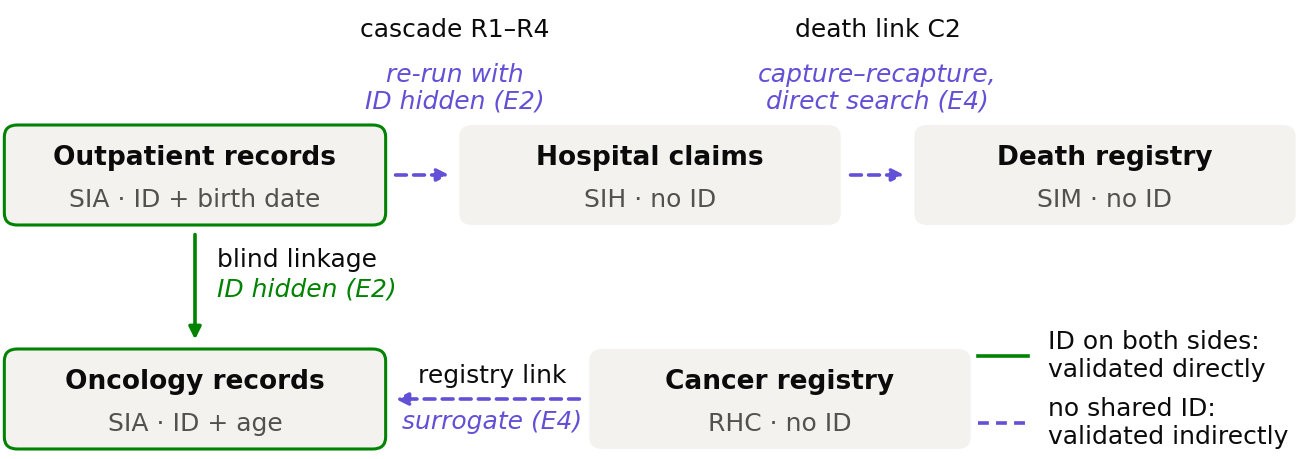
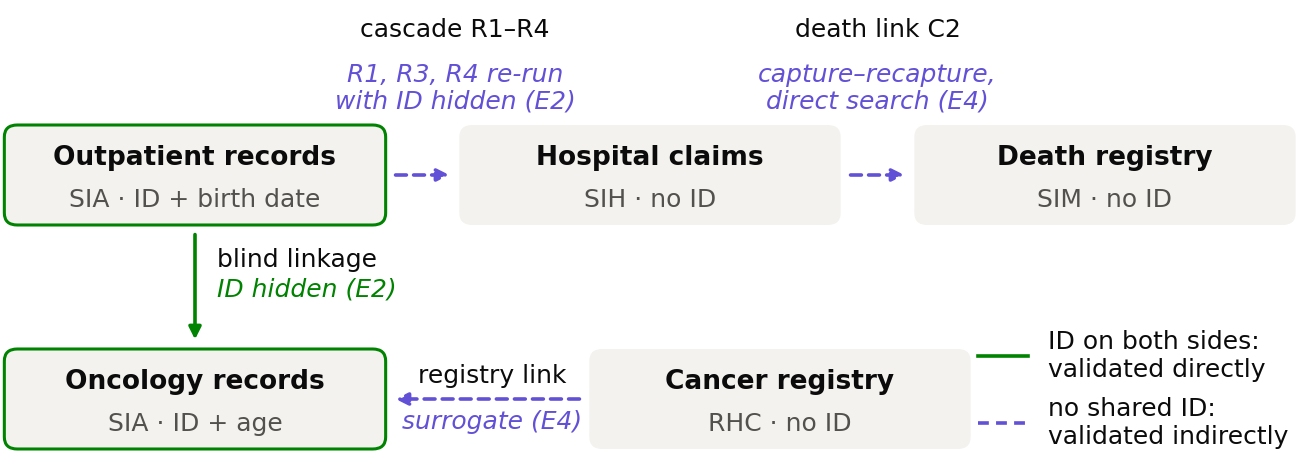
Citation contexts corrected; abstract and key findings match E4; Fig. 2 names the rules re-run

Changed region(s): [[0.2463, 0.122, 0.4619, 0.244]]

diff --git a/paper/ml4h_final.tex b/paper/ml4h_final.tex
@@ -78,10 +78,11 @@ used only as ground truth, the linkage cascade reaches 94.6\% recall and
 96.0\% precision in a candidate pool the size of a disease cohort, but
 36.7\% and 36.8\% across a whole state. Recall is 12.0 points lower where race
 is not recorded (6.0 [4.9, 7.2] after adjusting for year and state). In 2{,}684
-children with nephroblastoma, losing links at the measured rates moves 5-year
-survival from 80.5\% to at most 81.7\%, omitting the mortality
-sources moves it to 89.1\%, and deaths that no source records leave the
-reference between 77.5\% and 82.7\%. In a breast-cancer
+children with nephroblastoma, losing links at the measured or implied rates moves
+5-year survival from 80.5\% to at most 81.7\%, omitting the mortality
+sources moves it to 89.1\%, and deaths that no source records, together
+with registry deaths attached to the wrong patient, leave the reference between
+77.5\% and 82.7\%. In a breast-cancer
 survival model (209,387 patients), the source that labels death moves the stage
 IV hazard ratio from 2.52 to 8.07 and changes calibration
 by race. The choice of linked sources, not the number of lost links, determines
@@ -136,7 +137,9 @@ inherits the linkage errors: a missed link deletes an event, and a false link
 attaches someone else's (Figure~\ref{fig:overview}a). These errors are rarely
 measured. Work on linkage bias has mostly studied systems where names are
 available \citep{harron2014,doidge2019}, and work on algorithmic fairness
-usually takes the assembled record as given \citep{obermeyer2019,hardt2016,chen2021}.
+usually takes the assembled record as given \citep{obermeyer2019,hardt2016},
+although bias introduced during data collection is a recognised source of harm
+\citep{chen2021}.
 
 Brazil's Unified Health System (SUS) serves more than 200 million people and
 publishes its records as open microdata. Only the outpatient file carries a
@@ -172,8 +175,9 @@ calibration by race (E5).
 disease cohort: recall 94.6\% and precision 96.0\% there; both fall to
 36.7--36.8\% across a whole state.
 \textbf{(ii)} Links are lost most where registration is incomplete: recall is
-12.0 points lower where race is missing.
-\textbf{(iii)} Losing existing links at the measured rates moves 5-year survival
+12.0 points lower where race is missing (6.0 [4.9, 7.2] after adjusting for year
+and state).
+\textbf{(iii)} Losing existing links at the measured or implied rates moves 5-year survival
 little (80.5\% to at most 81.7\%); leaving out the mortality
 sources moves it to 89.1\%; and the source that labels death moves a
 model's stage IV hazard ratio from 2.52 to 8.07.}
@@ -191,9 +195,9 @@ where names are available. GUILD \citep{gilbert2018} specifies what
 linkage-quality information should be reported. Fellegi--Sunter
 \citep{fellegi1969} and its extensions \citep{winkler2006}, now run at scale by
 open-source tools such as Splink \citep{linacre2022}, give the probabilistic
-framework that we use as an audit instrument. \citet{christen2023} catalogue how
-errors in capturing, processing and linking population data reach the analysis. We differ in the
-identifier, the grain and the endpoint (Table~\ref{tab:prior}): no names are
+framework that we use as an audit instrument. \citet{christen2023} catalogue common
+misconceptions about errors in the capture, processing and linkage of population data. We differ in the
+identifier and the endpoint (Table~\ref{tab:prior}): no names are
 available, the only identifier is encrypted and absent from three of the four
 systems, and we follow the measured error into a survival estimate and a trained
 model.
@@ -452,7 +456,7 @@ same holds for Fellegi--Sunter parameters: nationally, the joint $u$ of birth
 date + sex + municipality is 1.02$\times$ the product of the
 single-field values, whereas in the nephroblastoma pool it is
 7.7--30.4$\times$ (Appendix~\ref{app:fs}).
-Chance agreement must be measured in the pool that is compared.
+Chance agreement depends on who is in the pool, so it must be measured in the pool that is compared.
 
 \subsection{E3: Links Are Lost Where Race Is Not Recorded}
 \label{sec:e3}
@@ -534,7 +538,7 @@ death links, at most at the rate that treats every ambiguous SIM death as false.
 only: death flags on the patient's own outpatient and hospital records, with no
 SIM link and no cancer registry.
 \item \emph{Unrecorded and false deaths.} The pipeline and the cancer registry give
-two lists of deaths; capture--recapture (Chapman, \citealp{chapman1951})
+two lists of deaths; capture--recapture (Chapman estimator; \citealp{chapman1951})
 estimates the deaths neither records. Registry deaths not found in SIM by a
 direct search are likely attached to the wrong patient.
 \end{itemize}

diff --git a/analysis/ml4h_figuras_finais.py b/analysis/ml4h_figuras_finais.py
@@ -195,7 +195,7 @@ def fig2_sources_links() -> None:
     caixa(xr, yb, "Cancer registry", "RHC · no ID")
 
     seta((xa + w / 2 + 0.02, yt), (xb - w / 2 - 0.02, yt), False)
-    rotulo((xa + xb) / 2 + 0.15, yt + h / 2 + 0.06, "cascade R1–R4", "re-run with\nID hidden (E2)", VIOLETA)
+    rotulo((xa + xb) / 2 + 0.15, yt + h / 2 + 0.06, "cascade R1–R4", "R1, R3, R4 re-run\nwith ID hidden (E2)", VIOLETA)
     seta((xb + w / 2 + 0.02, yt), (xc - w / 2 - 0.02, yt), False)
     rotulo((xb + xc) / 2, yt + h / 2 + 0.06, "death link C2", "capture–recapture,\ndirect search (E4)", VIOLETA)
     seta((xa, yt - h / 2 - 0.02), (xa, yb + h / 2 + 0.02), True)
